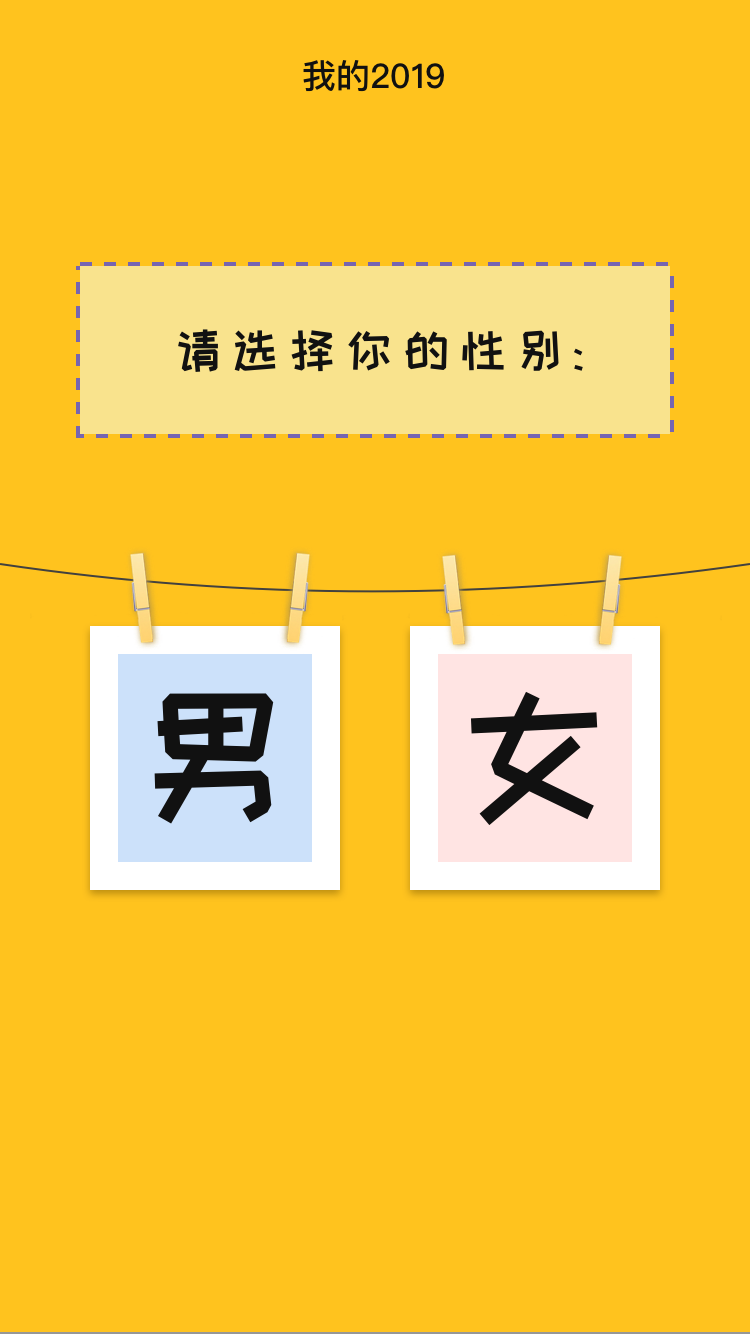
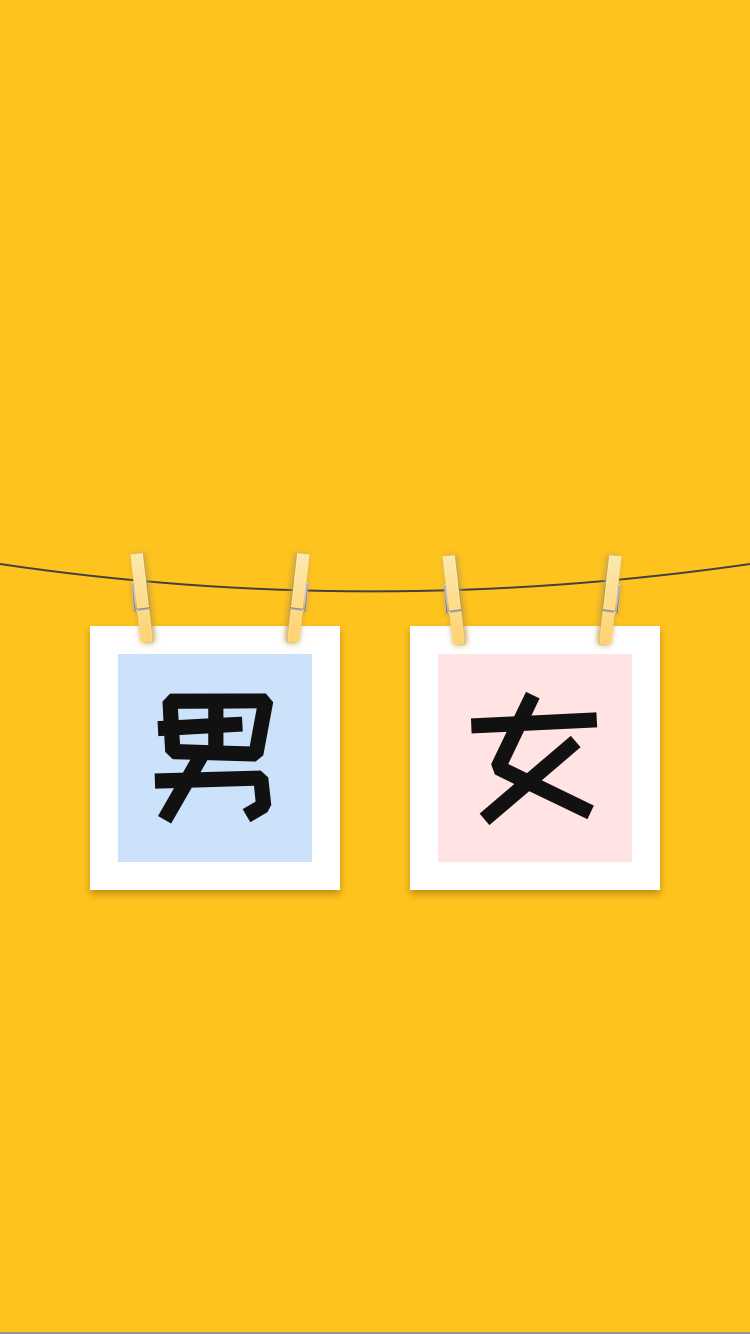
update

Changed region(s): [[0.092, 0.1844, 0.92, 0.3381], [0.3987, 0.0307, 0.5827, 0.0922]]

diff --git a/html/index.html b/html/index.html
@@ -25,7 +25,7 @@
     <div class="wrap-box home-module">
       <div class="snow-animation-container"></div>
       <div class="content-box">
-        <div class="title-box">我的2019</div>
+        <!-- <div class="title-box">我的2019</div> -->
         <div class="content">
           <div class="info">
             <p>
@@ -61,6 +61,16 @@
 
     <!-- two page -->
     <div class="wrap-box gender-module hide">
+      <div class="content-box content-info">
+        <!-- <div class="title-box">我的2019</div> -->
+        <div class="content">
+          <div class="info">
+            <p>
+                <span>请选择你的性别:</span>
+            </p>
+          </div>
+        </div>
+      </div>
       <div class="content-box gender-select">
           <img src="../image/gender_bg1.png" alt="">
           <ul class="gender-list">
@@ -83,14 +93,14 @@
     <!-- three page -->
     <div class="wrap-box form-module hide">
       <div class="content-box">
-        <div class="title-box">我的2019</div>
+        <!-- <div class="title-box">我的2019</div> -->
         <div class="content">
           <div class="info">
             <p><span>你的出生日期是:</span></p>
           </div>
           <div class="calendar-box">
-            <button class="btn" id="gregorianCalendarID" data-calendar-type="0"><span>公历</span></button>
-            <button class="btn btn-active" id="lunarCalendarID" data-calendar-type="1"><span>农历</span></button>
+            <button class="btn btn-active" id="gregorianCalendarID" data-calendar-type="0"><span>公历</span></button>
+            <button class="btn" id="lunarCalendarID" data-calendar-type="1"><span>农历</span></button>
           </div>
           <div class="date-box input-box">
             <div class="input-content">
@@ -101,7 +111,7 @@
           </div>
 
           <div class="info">
-            <p><span>你呱呱坠地的地方是:</span></p>
+            <p><span>你的出生地是:</span></p>
           </div>
 
           <div class="local-box  input-box">
@@ -124,7 +134,7 @@
     <!-- four page -->
     <div class="wrap-box loading-module">
       <div class="content-box">
-        <div class="title-box">我的2019</div>
+        <!-- <div class="title-box">我的2019</div> -->
         <div class="content">
           <div class="loading-box">
             <span class="circle"></span>
@@ -144,7 +154,7 @@
     <!-- five page -->
     <div class="wrap-box result-module hide">
       <div class="content-box">
-        <div class="title-box">我的2019</div>
+        <!-- <div class="title-box">我的2019</div> -->
         <div class="content">
             <div class="result-top">
             </div>
@@ -163,14 +173,12 @@
 
 
   <script src="../js/jquery-3.1.0.min.js"></script>
-  <script src='../js/index.js'></script> <!-- index.js -->
-
   <script src="../js/flexible.js"></script> <!-- 自适应 -->
   <script src="../js/echarts.js"></script> <!-- 雷达图 -->
   <script src="../js/lCalendar.js"></script> <!-- 日历插件 -->
   <script src="../js/citys.js"></script> <!-- 城市JSON -->
   <script src="../js/address.js"></script> <!-- 地址插件 -->
-
+  <script src='../js/index.js'></script> <!-- index.js -->
 
 
 

diff --git a/css/index.css b/css/index.css
@@ -211,7 +211,11 @@ body {
   overflow-y: scroll;
 }
 
-.wrap-box .content-box .title-box{
+.content-box{
+  padding-top: 0.5rem;
+}
+
+/* .wrap-box .content-box .title-box{
   font-size: 16px;
   color: #111111;
   letter-spacing: 0.09px;
@@ -219,7 +223,7 @@ body {
   text-align: center;
   padding: 8px 0;
   background: #FFC31E;
-}
+} */
 .wrap-box .content-box .btn{
   font-size: 24px;
   line-height: 28px;
@@ -245,13 +249,14 @@ body {
   right: 0;
   bottom: 0;
   z-index: 2;
-  background: #FF8D3E;
+  background: #FF9F5B;
   border: 1px solid #7665B1;
   border-radius: 4px;
 }
 
 .wrap-box .content-box .btn-active span{
   background: #ED690E;
+  height: 42px;
 }
 
 .wrap-box .content-box .btn::after{
@@ -267,6 +272,9 @@ body {
   border: 1px solid #7665B1;
   border-radius: 4px;
 
+}
+.wrap-box .content-box .btn-active:after{
+  display: none;
 }
 
 .hide{
@@ -336,7 +344,7 @@ input:focus{
   background-size: 0.4rem 0.4rem ;
   font-size: 0;
   text-align: center;
-  line-height: 0.7rem;
+  line-height: 0.6rem;
   color: #fff;
 }
 .loading-box .end .loading-end{
@@ -381,7 +389,7 @@ input:focus{
   font-size: 20px;
   color: #111111;
   letter-spacing: 1.66px;
-  line-height: 0.4rem;
+  line-height: 0.6rem;
   padding: 0 0.1rem;
 }
 .home-module .info p{
@@ -419,6 +427,14 @@ input:focus{
 .gender-module{
   background: url('../image/gender_bg.png') no-repeat center center;
   background-size: 100% auto;
+}
+
+.gender-module .content-info .content{
+  padding: 1.5rem 0.4rem 0;
+}
+
+.gender-module .content-info .content .info{
+  padding: 0.3rem 0;
 }
 
 .gender-module .gender-select{
@@ -473,7 +489,7 @@ input:focus{
 }
 
 .form-module .content-box .calendar-box{
-  overflow: hidden;
+  height: 0.8rem;
   margin-bottom: 0.4rem;
 }
 
@@ -499,6 +515,7 @@ input:focus{
   background: #FFFFFF;
   border: 1px solid #7665B1;
   padding: 8px;
+  height: 38px;
 }
 .form-module .content-box .input-box .err{
   width: 100%;
@@ -523,6 +540,7 @@ input:focus{
   display: block;
   padding: 0 0 0 75px;
   border: none;
+  line-height: 20px;
 }
 
 .form-module .content-box .local-box .inp{

diff --git a/js/index.js b/js/index.js
@@ -113,7 +113,6 @@ $( function () {
         dataVal = dataVal.replace('分不确定','0分');
       }
 
-      console.log(dataVal,'this is dataVal1');
 
       var strs = ["/","/"," ",":",""];
       dataVal = dataVal.replace(/\D/g,function(){return strs.shift()});
@@ -282,7 +281,7 @@ $( function () {
                 {name: '事业', max: 9}
             ],
             shape: 'circle',
-            radius: '70%',
+            radius: '65%',
             splitNumber: 9,
             name: {
                 textStyle: {
@@ -325,4 +324,7 @@ $( function () {
 
     myChart.setOption(option);
   }
+
+
+
 })

diff --git a/css/lCalendar.css b/css/lCalendar.css
@@ -64,7 +64,7 @@
 .datetime_roll{
 	position: relative;
 }
-.datetime_roll:after{
+/* .datetime_roll:after{
 	content: "";
   position: absolute;
   left: 0;
@@ -73,9 +73,9 @@
   width: 100%;
   height: 1px;
   background: #ccc;
-}
+} */
 
-.datetime_roll:before{
+/* .datetime_roll:before{
 	content: "";
   position: absolute;
   left: 0;
@@ -84,7 +84,7 @@
   width: 100%;
   height: 1px;
   background: #ccc;
-}
+} */
 
 
 .date_roll>div,

diff --git a/README.md b/README.md
@@ -2,3 +2,5 @@
 - [ ] 微信分享的标题，描述，logo  首页mate + body下的首图
 - [ ] 微信的授权
 - [ ] 结果页logo: 用户logo／默认logo
+- [ ] 长按保存图片－把结果页转成图片，保存下来
+- [ ] 统计
